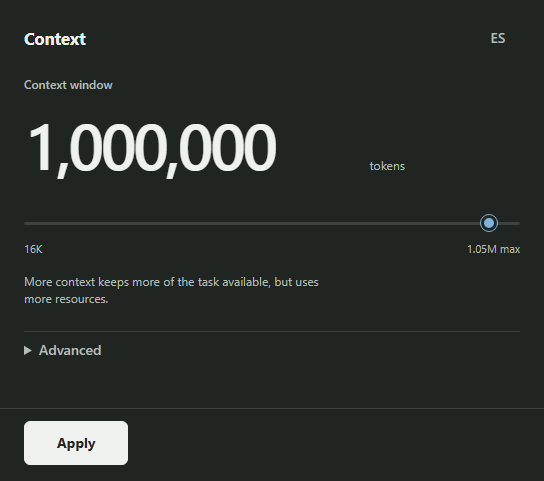
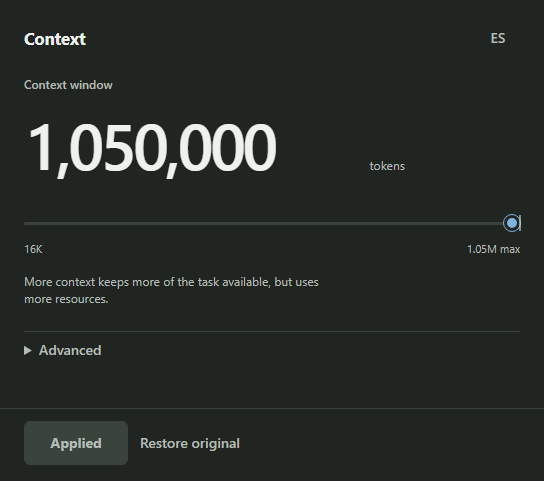
Ship scroll-free v2.0.1

Changed region(s): [[0.0312, 0.8732, 0.4375, 0.9667], [0.1875, 0.2495, 0.25, 0.3742], [0.875, 0.4366, 0.9688, 0.499]]

diff --git a/src/main.js b/src/main.js
@@ -4,6 +4,7 @@ import {
   ipcMain,
   net,
   protocol,
+  screen,
   session,
 } from 'electron';
 import path from 'node:path';
@@ -19,6 +20,8 @@ const ROOT = path.resolve(path.dirname(fileURLToPath(import.meta.url)), '..');
 const PUBLIC = path.join(ROOT, 'public');
 const APP_ORIGIN = 'app://bundle';
 const APP_ID = 'com.codavidgarcia.codex-context-switch';
+const COLLAPSED_HEIGHT = 520;
+const EXPANDED_HEIGHT = 570;
 const CONFIG_PATH = resolveConfigPath();
 const ASSET_ALLOWLIST = new Set([
   '/index.html',
@@ -85,6 +88,16 @@ function registerIpc() {
     assertTrustedSender(event);
     return safely(() => revertSettings(CONFIG_PATH));
   });
+
+  ipcMain.on('context-switch:advanced', (event, open) => {
+    assertTrustedSender(event);
+    if (!mainWindow || typeof open !== 'boolean') return;
+    const bounds = mainWindow.getBounds();
+    const height = open ? EXPANDED_HEIGHT : COLLAPSED_HEIGHT;
+    const workArea = screen.getDisplayMatching(bounds).workArea;
+    const y = Math.max(workArea.y, Math.min(bounds.y, workArea.y + workArea.height - height));
+    mainWindow.setBounds({ ...bounds, y, height });
+  });
 }
 
 function registerAppProtocol() {
@@ -101,9 +114,9 @@ function registerAppProtocol() {
 function createWindow() {
   mainWindow = new BrowserWindow({
     width: 560,
-    height: 520,
-    minWidth: 440,
-    minHeight: 430,
+    height: COLLAPSED_HEIGHT,
+    resizable: false,
+    maximizable: false,
     show: true,
     backgroundColor: '#f4f5f3',
     autoHideMenuBar: true,

diff --git a/public/styles.css b/public/styles.css
@@ -47,7 +47,7 @@
 html,
 body {
   min-inline-size: 0;
-  min-block-size: 100dvh;
+  block-size: 100%;
   margin: 0;
   background: var(--canvas);
   color: var(--ink);
@@ -118,7 +118,6 @@ main {
   min-inline-size: 0;
   min-block-size: 0;
   padding: var(--space-2) var(--space-5) var(--space-4);
-  overflow: auto;
 }
 
 form,
@@ -268,10 +267,10 @@ form,
 }
 
 .advanced-row {
-  display: flex;
+  display: grid;
+  grid-template-columns: minmax(0, 1fr) auto auto;
   align-items: baseline;
   justify-content: space-between;
-  flex-wrap: wrap;
   gap: var(--space-3);
   padding-block: var(--space-2);
 }
@@ -367,16 +366,6 @@ form,
   .restore-action:hover,
   .text-button:hover {
     color: var(--ink);
-  }
-}
-
-@media (max-width: 30rem) {
-  .action-bar {
-    grid-template-columns: minmax(0, 1fr);
-  }
-
-  .result {
-    text-align: start;
   }
 }
 

diff --git a/public/index.html b/public/index.html
@@ -42,8 +42,8 @@
               <input id="compactInput" name="compactLimit" type="text" inputmode="numeric" value="900,000" autocomplete="off" spellcheck="false">
               <span data-i18n="tokens">tokens</span>
             </div>
+            <button class="text-button" id="ratioButton" type="button" data-i18n="useNinety">Use 90%</button>
           </div>
-          <button class="text-button" id="ratioButton" type="button" data-i18n="useNinety">Use 90%</button>
         </details>
 
         <div class="form-message" id="formMessage" role="alert" hidden></div>

diff --git a/public/app.js b/public/app.js
@@ -298,6 +298,9 @@ elements.restoreButton.addEventListener('click', async () => {
 });
 
 elements.languageButton.addEventListener('click', () => setLanguage(state.language === 'en' ? 'es' : 'en'));
+elements.advanced.addEventListener('toggle', () => {
+  window.contextSwitch.setAdvanced(elements.advanced.open);
+});
 
 setLanguage(state.language ?? 'en');
 loadStatus().catch((error) => {

diff --git a/DESIGN-DNA.md b/DESIGN-DNA.md
@@ -36,7 +36,7 @@ The current value is a thin stationary notch on the same scale as the selected v
 ## 5. Space and density
 
 - Compact utility density on a 4px grid.
-- The default window is 560 × 520px and must remain useful down to 440 × 430px.
+- The window is fixed at 560 × 520px and expands vertically to 570px only while Advanced is open; neither state scrolls.
 - The number and scale own the reading area; secondary controls stay below it.
 
 ## 6. Motion
@@ -79,3 +79,4 @@ The current value is a thin stationary notch on the same scale as the selected v
 | 2026-08-17 | Electron desktop app | Double-click launch and direct, local file access | Browser plus localhost server |
 | 2026-08-17 | Parameter-editor screen | Matches the single job and removes explanation from the UI | Hero, presets, status pills, TOML preview, terminal styling |
 | 2026-08-17 | Native system typography | Makes the utility feel at home on the operating system | Bundled brand font and launch-page typography |
+| 2026-08-17 | Content-sized window states | Keeps the one-task utility scroll-free without leaving permanent dead space | Scroll container or permanently tall window |

diff --git a/CONTRIBUTING.md b/CONTRIBUTING.md
@@ -8,4 +8,4 @@ Thanks for helping improve Codex Context Switch.
 4. Add a regression test for every config-writing change.
 5. Run `npm run check` before opening a pull request.
 
-UI changes should follow `DESIGN-DNA.md`, remain usable at the minimum 440 × 430px window size, preserve keyboard focus, and honor reduced-motion preferences.
+UI changes should follow `DESIGN-DNA.md`, fit without scroll in both fixed window states, preserve keyboard focus, and honor reduced-motion preferences.

diff --git a/README.md b/README.md
@@ -63,4 +63,4 @@ Build packages for the current operating system with `npm run dist`. On Windows,
 
 ## License
 
-MIT
+Apache License 2.0. See [LICENSE](LICENSE).
